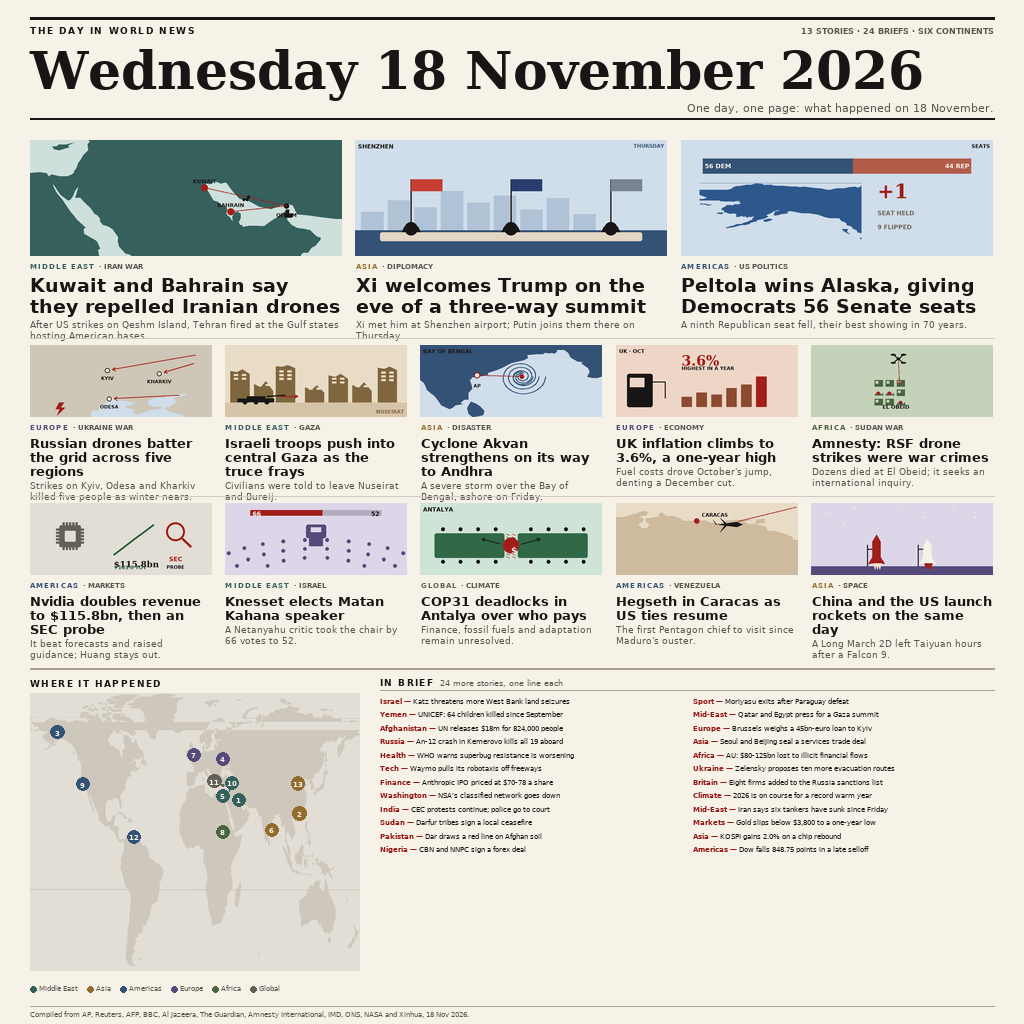
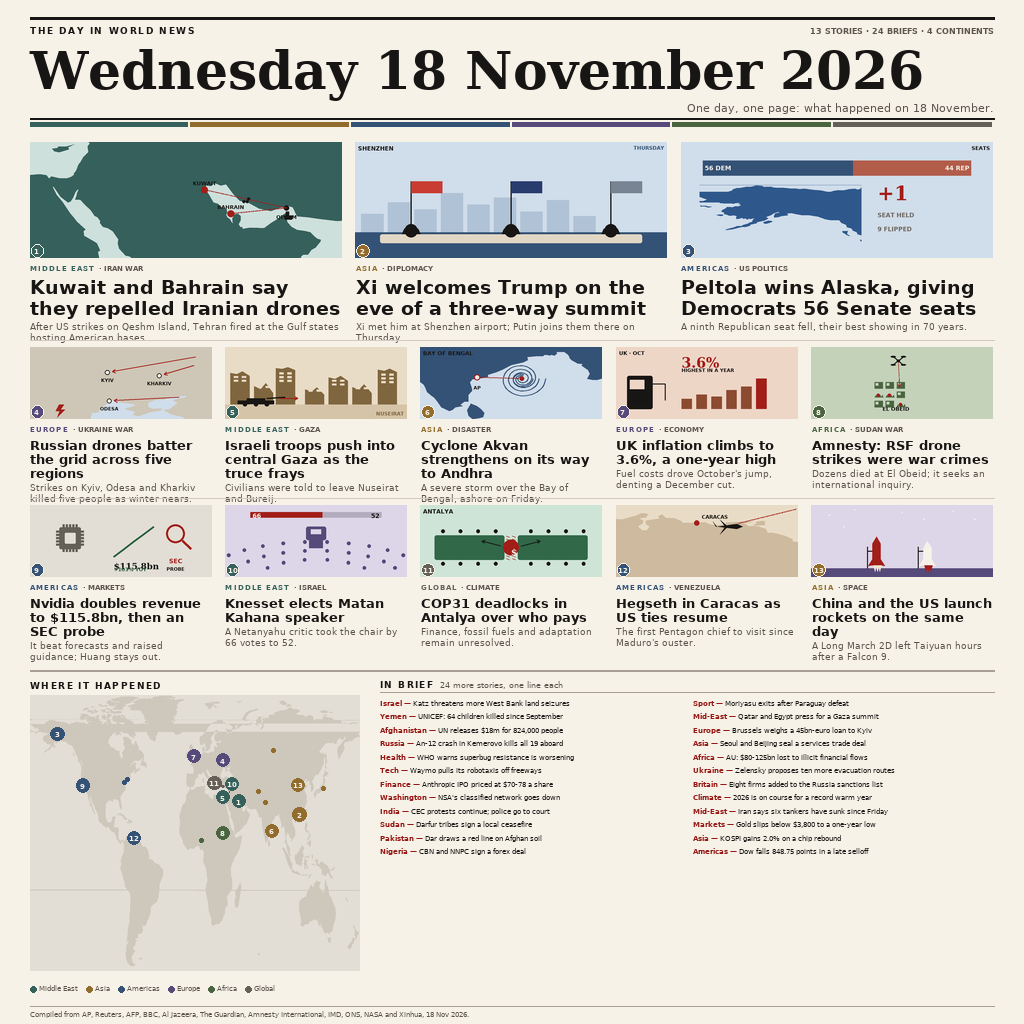
Thread one colour index through the page, and pin the briefs too
Region colour now runs from the masthead rule to each card's number badge to
the matching pin, so a story can be traced from text to territory. The map
carries the briefs as well, and the masthead's counts are derived from the
content rather than typed.

diff --git a/tools/layout2.py b/tools/layout2.py
@@ -74,30 +74,30 @@ STORIES = [
 ]
 
 BRIEFS = [
-    ("Israel", "Katz threatens more West Bank land seizures"),
-    ("Yemen", "UNICEF: 64 children killed since September"),
-    ("Afghanistan", "UN releases $18m for 824,000 people"),
-    ("Russia", "An-12 crash in Kemerovo kills all 19 aboard"),
-    ("Health", "WHO warns superbug resistance is worsening"),
-    ("Tech", "Waymo pulls its robotaxis off freeways"),
-    ("Finance", "Anthropic IPO priced at $70-78 a share"),
-    ("Washington", "NSA's classified network goes down"),
-    ("India", "CEC protests continue; police go to court"),
-    ("Sudan", "Darfur tribes sign a local ceasefire"),
-    ("Pakistan", "Dar draws a red line on Afghan soil"),
-    ("Nigeria", "CBN and NNPC sign a forex deal"),
-    ("Sport", "Moriyasu exits after Paraguay defeat"),
-    ("Mid-East", "Qatar and Egypt press for a Gaza summit"),
-    ("Europe", "Brussels weighs a 45bn-euro loan to Kyiv"),
-    ("Asia", "Seoul and Beijing seal a services trade deal"),
-    ("Africa", "AU: $80-125bn lost to illicit financial flows"),
-    ("Ukraine", "Zelensky proposes ten more evacuation routes"),
-    ("Britain", "Eight firms added to the Russia sanctions list"),
-    ("Climate", "2026 is on course for a record warm year"),
-    ("Mid-East", "Iran says six tankers have sunk since Friday"),
-    ("Markets", "Gold slips below $3,800 to a one-year low"),
-    ("Asia", "KOSPI gains 2.0% on a chip rebound"),
-    ("Americas", "Dow falls 848.75 points in a late selloff"),
+    ("Israel", "Katz threatens more West Bank land seizures", 35.2, 31.9),
+    ("Yemen", "UNICEF: 64 children killed since September", 44.2, 15.4),
+    ("Afghanistan", "UN releases $18m for 824,000 people", 69.2, 34.5),
+    ("Russia", "An-12 crash in Kemerovo kills all 19 aboard", 86.1, 55.4),
+    ("Health", "WHO warns superbug resistance is worsening", 6.1, 46.2),
+    ("Tech", "Waymo pulls its robotaxis off freeways", -122.4, 37.8),
+    ("Finance", "Anthropic IPO priced at $70-78 a share", -122.4, 37.8),
+    ("Washington", "NSA's classified network goes down", -77.0, 38.9),
+    ("India", "CEC protests continue; police go to court", 77.2, 28.6),
+    ("Sudan", "Darfur tribes sign a local ceasefire", 24.0, 13.0),
+    ("Pakistan", "Dar draws a red line on Afghan soil", 73.1, 33.7),
+    ("Nigeria", "CBN and NNPC sign a forex deal", 7.5, 9.1),
+    ("Sport", "Moriyasu exits after Paraguay defeat", 139.7, 35.7),
+    ("Mid-East", "Qatar and Egypt press for a Gaza summit", 51.5, 25.3),
+    ("Europe", "Brussels weighs a 45bn-euro loan to Kyiv", 4.4, 50.8),
+    ("Asia", "Seoul and Beijing seal a services trade deal", 127.0, 37.6),
+    ("Africa", "AU: $80-125bn lost to illicit financial flows", 38.7, 9.0),
+    ("Ukraine", "Zelensky proposes ten more evacuation routes", 30.5, 50.4),
+    ("Britain", "Eight firms added to the Russia sanctions list", -0.1, 51.5),
+    ("Climate", "2026 is on course for a record warm year", 0.0, 0.0),
+    ("Mid-East", "Iran says six tankers have sunk since Friday", 56.3, 26.9),
+    ("Markets", "Gold slips below $3,800 to a one-year low", -74.0, 40.7),
+    ("Asia", "KOSPI gains 2.0% on a chip rebound", 127.0, 37.6),
+    ("Americas", "Dow falls 848.75 points in a late selloff", -74.0, 40.7),
 ]
 
 REGION_HUE = {
@@ -109,9 +109,37 @@ REGION_HUE = {
     "Global": (100, 96, 88),
 }
 
+# which region hue each brief's dot takes on the map
+BRIEF_REGION = {
+    "Israel": "Middle East", "Yemen": "Middle East", "Mid-East": "Middle East",
+    "Afghanistan": "Asia", "India": "Asia", "Pakistan": "Asia",
+    "Asia": "Asia", "Sport": "Asia",
+    "Russia": "Asia", "Britain": "Europe", "Europe": "Europe",
+    "Ukraine": "Europe", "Health": "Europe",
+    "Sudan": "Africa", "Nigeria": "Africa", "Africa": "Africa",
+    "Tech": "Americas", "Finance": "Americas", "Washington": "Americas",
+    "Markets": "Americas", "Americas": "Americas",
+    "Climate": "Global",
+}
+
 M = 30           # page margin
 GUT = 13         # gutter between cards
 TRIM = H - 30    # nothing may cross this
+
+# the continent each region belongs to, for the masthead's own count
+CONTINENT = {
+    "Middle East": "Asia", "Asia": "Asia", "Americas": "the Americas",
+    "Europe": "Europe", "Africa": "Africa", "Oceania": "Oceania",
+    "Global": None,
+}
+
+
+def continents():
+    """The continents this page actually covers, named. Derived, never typed."""
+    names = {"Africa", "the Americas", "Asia", "Europe", "Oceania"}
+    seen = {CONTINENT[s[0]] for s in STORIES} - {None}
+    assert seen <= names, "unknown continent: %r" % (seen - names)
+    return len(seen)
 
 
 def card_w(n, total_w):
@@ -130,14 +158,24 @@ class Page:
         self.bottom = max(self.bottom, y)
 
 
-def draw_card(pg, x, y, w, plate_h, story, hs_seq, max_head, dek_lines):
+def draw_card(pg, x, y, w, plate_h, story, hs_seq, max_head, dek_lines,
+              number=None):
     """One card; returns the y it ended at."""
     d = pg.d
     region, beat, head, dek, fn, lon, lat = story
     pg.img.paste(fn(int(w), int(plate_h)), (int(x), int(y)))
-    yy = y + plate_h + 6
 
+    # the number badge, in the region's colour, matching the pin on the map
     hue = REGION_HUE[region]
+    if number is not None:
+        br = 6.2
+        bx, by = x + br + 1, y + plate_h - br - 1
+        d.ellipse([bx - br, by - br, bx + br, by + br], fill=hue)
+        d.ellipse([bx - br, by - br, bx + br, by + br], outline=PAPER, width=1)
+        d.text((bx, by + 0.3), str(number), font=bold(7.0), fill=PAPER,
+               anchor="mm")
+
+    yy = y + plate_h + 6
     tracked(d, x, yy, region.upper(), bold(7), hue, 1.1)
     kw = tracked_w(d, region.upper(), bold(7), 1.1)
     d.text((x + kw + 5, yy), "· " + beat.upper(), font=bold(7), fill=GREY)
@@ -168,13 +206,24 @@ def masthead(pg):
     d = pg.d
     d.line([(M, 18), (W - M, 18)], fill=INK, width=3)
     tracked(d, M, 25, "THE DAY IN WORLD NEWS", bold(9), INK, 1.6)
-    d.text((W - M, 26), "13 STORIES · 24 BRIEFS · SIX CONTINENTS",
+    ncon = continents()
+    d.text((W - M, 26),
+           "%d STORIES · %d BRIEFS · %d CONTINENTS"
+           % (len(STORIES), len(BRIEFS), ncon),
            font=bold(8), fill=GREY, anchor="ra")
     d.text((M, 40), "Wednesday 18 November 2026", font=serif(52), fill=INK)
     d.text((W - M, 101), "One day, one page: what happened on 18 November.",
            font=reg(11), fill=GREY, anchor="ra")
     d.line([(M, 118), (W - M, 118)], fill=INK, width=2)
-    return 130
+
+    # the region colours, as a rule under the date: the key to every badge,
+    # kicker and pin below
+    order = ["Middle East", "Asia", "Americas", "Europe", "Africa", "Global"]
+    seg = (W - 2 * M) / len(order)
+    for i, name in enumerate(order):
+        d.rectangle([M + i * seg, 122, M + (i + 1) * seg - 3, 126],
+                    fill=REGION_HUE[name])
+    return 132
 
 
 def map_band(pg, x, y, w, h):
@@ -225,6 +274,22 @@ def map_band(pg, x, y, w, h):
                for i, a in enumerate(placed) for b in placed[i + 1:])
     assert mind >= need - 0.01, "pins still collide: %.2f" % mind
 
+    # the briefs, as small unnumbered dots in their region's colour: the day's
+    # whole geography, not only the thirteen leads
+    dots = []
+    for k, s, lon, lat in BRIEFS:
+        if lon == 0.0 and lat == 0.0:
+            continue                      # a story with no single place
+        dx, dy = geo.project(lon, lat, box)
+        hue = REGION_HUE[BRIEF_REGION[k]]
+        if any(math.hypot(dx - q[0], dy - q[1]) < need * 0.92 for q in placed):
+            continue                      # too near a numbered pin to add
+        if any(math.hypot(dx - q[0], dy - q[1]) < 4.0 for q in dots):
+            continue                      # two briefs at one place: one dot
+        dots.append((dx, dy, hue))
+    for dx, dy, hue in dots:
+        d.ellipse([dx - 2.0, dy - 2.0, dx + 2.0, dy + 2.0], fill=hue)
+
     for k, (px, py, region, i) in enumerate(pos):
         hue = REGION_HUE[region]
         ox, oy = geo.project(STORIES[i - 1][5], STORIES[i - 1][6], box)
@@ -237,13 +302,17 @@ def map_band(pg, x, y, w, h):
 
 
 def legend(pg, x, y):
+    """The key: the same colours the badges carry, in the same order."""
     d = pg.d
+    x0 = x
     for name, col in (("Middle East", (54, 96, 92)), ("Asia", (146, 108, 44)),
                       ("Americas", (52, 82, 118)), ("Europe", (86, 74, 122)),
                       ("Africa", (74, 100, 64)), ("Global", (100, 96, 88))):
+        if x - x0 > 250:
+            break
         d.ellipse([x, y + 2, x + 6, y + 8], fill=col)
-        d.text((x + 9, y), name, font=reg(7.2), fill=GREY)
-        x += 9 + tw(d, name, reg(7.2)) + 9
+        d.text((x + 9, y), name, font=reg(7.0), fill=GREY)
+        x += 9 + tw(d, name, reg(7.0)) + 8
     pg.mark(y + 9)
 
 
@@ -261,7 +330,7 @@ def briefs(pg, x, y, w, cols=2):
     per = (len(BRIEFS) + cols - 1) // cols
     rh = min(13.5, (TRIM - 12 - y) / per)
 
-    for i, (k, s) in enumerate(BRIEFS):
+    for i, (k, s, lon, lat) in enumerate(BRIEFS):
         c, r = i // per, i % per
         cx, cy = x + c * (cw + 12), y + r * rh
         d.text((cx, cy), k + " — ", font=bold(7.2), fill=RED)
@@ -280,8 +349,9 @@ def main(out_path):
     cw3 = card_w(3, W - 2 * M)
     xs = [M + i * (cw3 + GUT) for i in range(3)]
     y = top + 10
-    for x, s in zip(xs, STORIES[:3]):
-        b = draw_card(pg, x, y, cw3, 116, s, (19, 18, 17, 16, 15), 2, 2)
+    for i, (x, s) in enumerate(zip(xs, STORIES[:3]), start=1):
+        b = draw_card(pg, x, y, cw3, 116, s, (19, 18, 17, 16, 15), 2, 2,
+                      number=i)
     y = b + 14
     pg.d.line([(M, y - 7), (W - M, y - 7)], fill=HAIR, width=1)
 
@@ -290,8 +360,9 @@ def main(out_path):
     xs5 = [M + i * (cw5 + GUT) for i in range(5)]
     for row in range(2):
         block = STORIES[3 + row * 5: 8 + row * 5]
-        for x, s in zip(xs5, block):
-            b = draw_card(pg, x, y, cw5, 72, s, (13, 12.5, 12, 11.5, 11), 3, 2)
+        for j, (x, s) in enumerate(zip(xs5, block)):
+            b = draw_card(pg, x, y, cw5, 72, s, (13, 12.5, 12, 11.5, 11), 3, 2,
+                          number=4 + row * 5 + j)
         y = b + 14
         if row == 0:
             pg.d.line([(M, y - 7), (W - M, y - 7)], fill=HAIR, width=1)

diff --git a/README.md b/README.md
@@ -12,7 +12,7 @@ Bounty page: <https://make.fun/bounty/news-image-20261118>
 
 An illustrated front page: a masthead naming the day, thirteen stories each with
 a purpose-drawn vector illustration, a locator map of where they happened, and 24
-one-line briefs. Thirty-seven stories across six continents.
+one-line briefs. Thirty-seven stories across four continents.
 
 Reading order is deliberate:
 
@@ -88,7 +88,7 @@ cd tools && python3 layout2.py   # writes /tmp/page.png
 
 - Two consecutive runs produce byte-identical output — the program copies bytes and
   re-encodes nothing.
-- The PNG is 1024×1024 and 230,810 bytes — under the 1 MiB limit.
+- The PNG is 1024×1024 and 232,945 bytes — under the 1 MiB limit.
 - All PNG chunk CRCs verify and the stream ends at its IEND marker.
 - No text is clipped, overlapping or below the legibility floor: card text blocks
   are measured against the row below, the page bottom is asserted, and every
